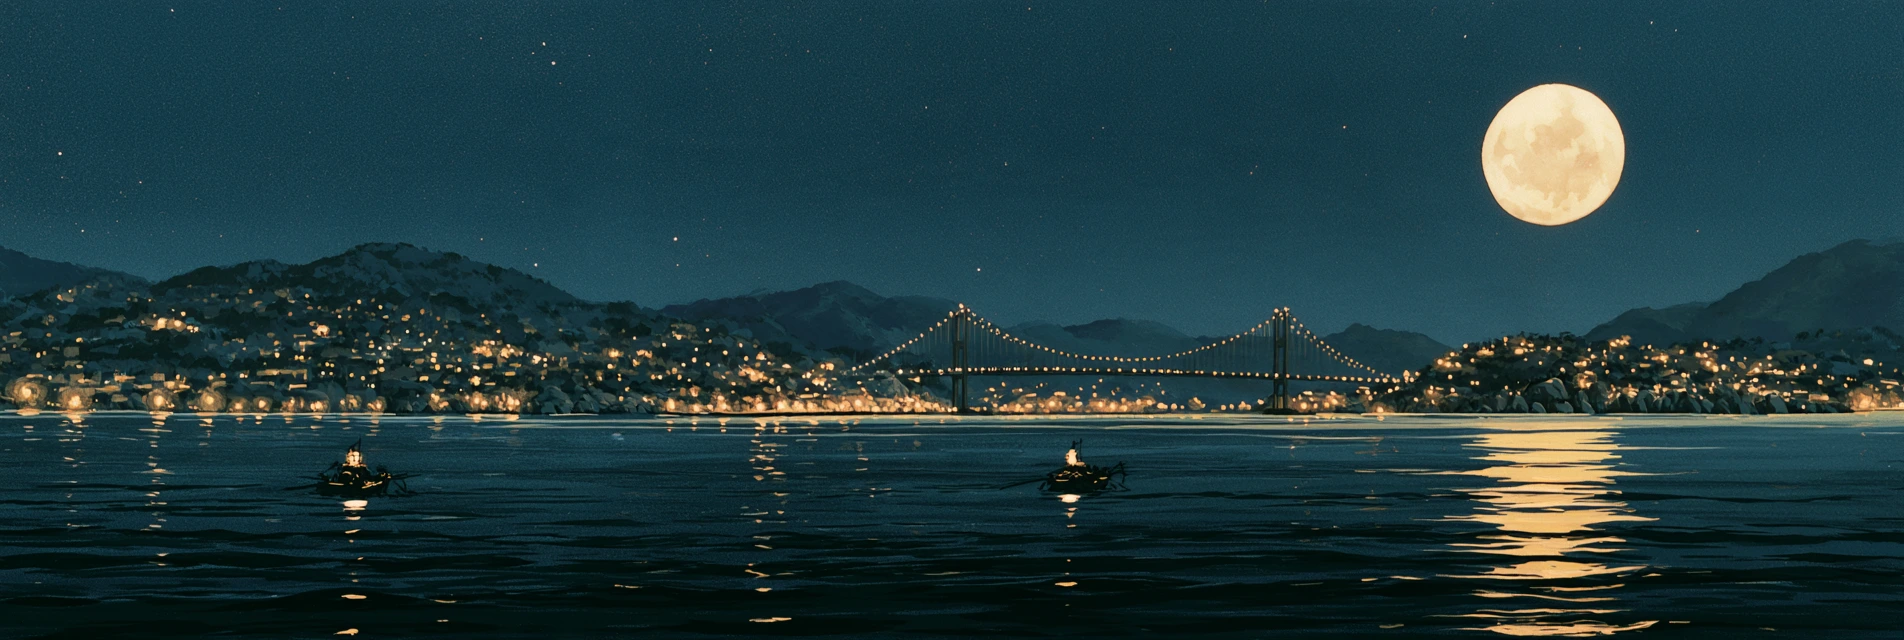
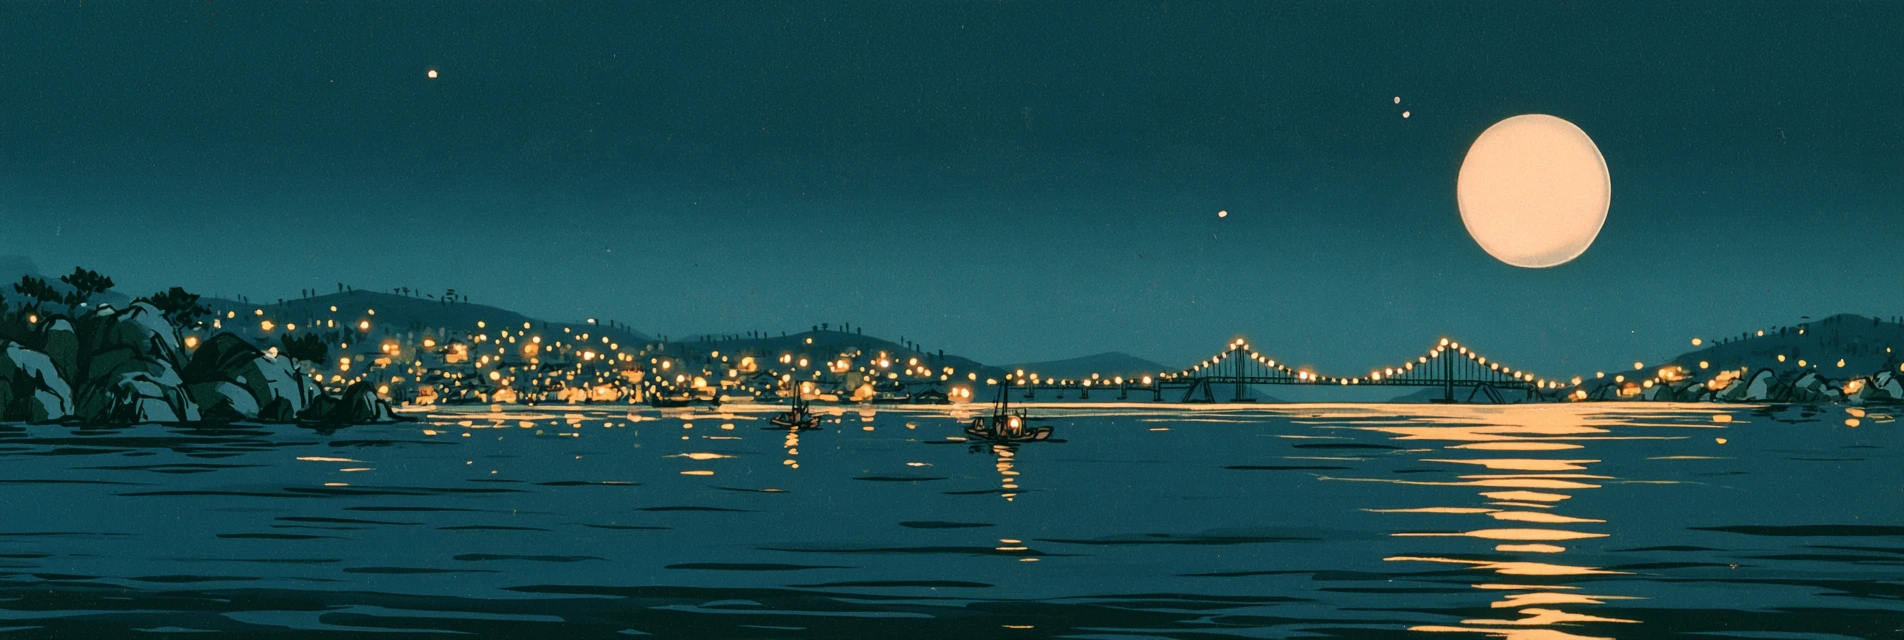
부산 무대 그림을 60년대 TV 만화 그림체로 교체
Claude-Session: https://claude.ai/code/session_015fNbvzvz4xuREQtMjmLhTY

diff --git a/stage/index.html b/stage/index.html
@@ -21,9 +21,9 @@ import * as THREE from './three.module.js';
 /* ================= 구간 설정 (구간마다 이것만 바꾸면 됨) ================= */
 const SCENE={
   name:'부산',
-  far:{img:'far.webp',w:1904,h:640,hz:412,moonU:.82,moonAt:.74,fold:110},
-  mid:{img:'mid.webp',w:1904,h:356,z:-70,hgt:23,topBelowHz:.025,tint:[.74,.77,.9]},
-  emb:{img:'emb.webp',w:2176,h:332,rail:62,sea:296,scale:.0095},
+  far:{img:'far.webp',w:1904,h:640,hz:414,moonU:.805,moonAt:.74,fold:110},
+  mid:{img:'mid.webp',w:1904,h:438,z:-70,hgt:26,topBelowHz:.0,tint:[.9,.9,.96]},
+  emb:{img:'emb.webp',w:2176,h:310,rail:57,sea:288,scale:.0095},
   ppl:[['pf_p02.webp','dine',.62,1.32]]
 };
 /* ======================================================================= */
@@ -89,7 +89,7 @@ const train=new THREE.Group();scene.add(train);
 const cars=[];let x=0;
 for(const [k,name] of ORDER){
   const w=(k==='loco'?2856:1640)*PX,h=(k==='loco'?680:550)*PX;
-  const p=plane(tex('car_'+k+'.webp'),w,h,[.84,.86,.97]);p.renderOrder=6;
+  const p=plane(tex('car_'+k+'.webp'),w,h,[.88,.9,.97]);p.renderOrder=6;
   p.position.set(x+w/2,h/2-0.03,0);p.userData={k,name,w,h,ph:Math.random()*6};train.add(p);cars.push(p);x+=w-0.22;
 }
 const TRAINW=x;train.position.x=-TRAINW/2;
